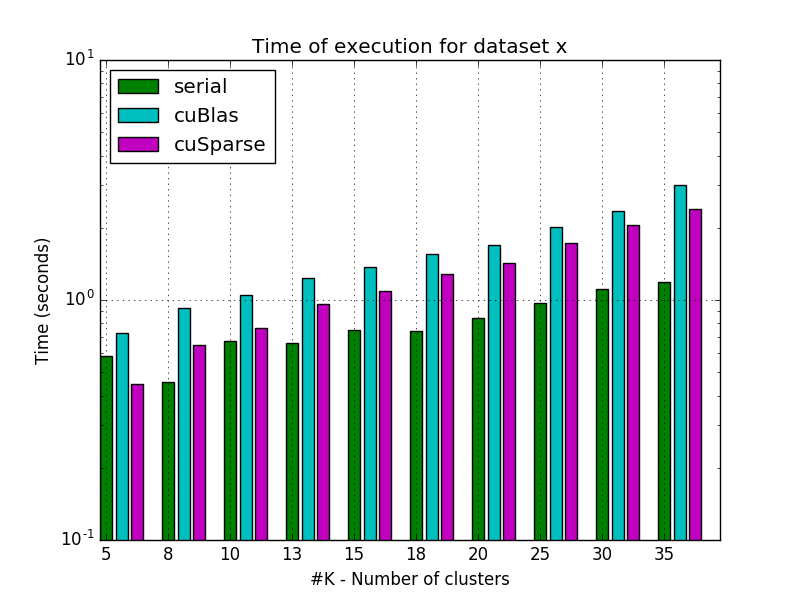
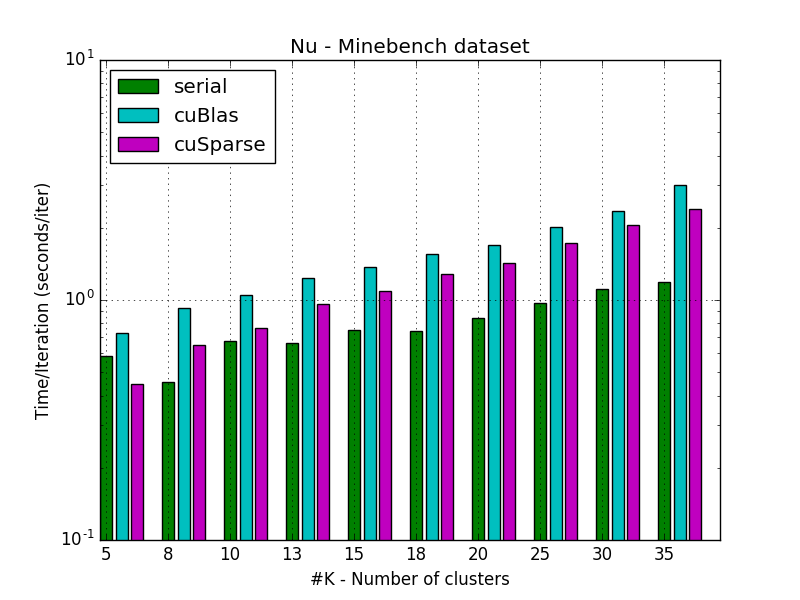
Compare implementations for daily, improved graphs

Changed region(s): [[0.3125, 0.06, 0.7188, 0.09], [0.0312, 0.3, 0.0625, 0.69]]

diff --git a/results/plot_graphs.py b/results/plot_graphs.py
@@ -16,7 +16,7 @@ def parse_results(condition, filename):
 	result = map(lambda x: float(x.split(",")[-2].split()[0]), kept_lines)
 	return result
 
-def plot_one(output_name, dataset, files, x_labels):
+def plot_one(output_name, dataset, files, x_labels, title):
 	cond = lambda x: x.startswith('cusparse, ' + dataset + ',')
 	cusparse_times = parse_results(cond, files[0])
 	N = len(cusparse_times)
@@ -28,8 +28,7 @@ def plot_one(output_name, dataset, files, x_labels):
 	cond = lambda x: x.startswith('scikit_kmeans, ' + dataset + ',')
 	serial_times = parse_results(cond, files[2])
 
-
-	# 
+	
 
 	max_value = max(max(serial_times), max(cublas_times), max(cusparse_times))
 
@@ -46,8 +45,8 @@ def plot_one(output_name, dataset, files, x_labels):
 	rects3 = ax.bar(ind + 2*(width + gap), cusparse_times, width, color='m')
 
 	# add some text for labels, title and axes ticks
-	ax.set_ylabel('Time (seconds)')
-	ax.set_title('Time of execution for dataset x')
+	ax.set_ylabel('Time/Iteration (seconds/iter)')
+	ax.set_title(title + " dataset")
 	ax.set_xticks(ind + width / 2)
 	ax.set_xticklabels(x_labels)
 	ax.set_xlabel('#K - Number of clusters')
@@ -61,20 +60,22 @@ def plot_one(output_name, dataset, files, x_labels):
 
 ## TODO: Show inertia somewhere
 
+title = "Spatial Network"
 output_name = "road_dataset.png"
 dataset = 'data/road_spatial_network_dataset/spatial_network.data'
 files = ["titan_x_final.txt"] * 2 + ["konka_scikit_results.out"]
 x_labels = map(str, range(5,46,5) + [55])
-plot_one(output_name, dataset, files, x_labels)
+plot_one(output_name, dataset, files, x_labels, title)
 
+title = "Nu - Minebench"
 output_name = "nu_minebench.png"
 dataset = 'data/nu_minebench_dataset/kmeans/edge.data'
 files = ["titan_x_final.txt"] * 2 + ["konka_scikit_results.out"]
 x_labels = map(str, range(50,401,50) + [500, 600])
-plot_one(output_name, dataset, files, x_labels)
+plot_one(output_name, dataset, files, x_labels, title)
 
 output_name = "daily_sports.png"
 dataset = 'data/daily_sports_activities/data.data'
 files = ["results_daily.out"] * 2 + ["scikit_final.out"]
 x_labels = map(str, [5,8,10,13,15,18,20,25,30,35])
-plot_one(output_name, dataset, files, x_labels)
+plot_one(output_name, dataset, files, x_labels, title)

diff --git a/compare_implementations.py b/compare_implementations.py
@@ -29,9 +29,9 @@ datasets = [
     # "iris_dataset/iris.data",
     # "elki_sample_dataset/dataset_elki_150.in",
     # "elki_sample_dataset/dataset_elki_500.in",
-    "road_spatial_network_dataset/spatial_network.data",
+    # "road_spatial_network_dataset/spatial_network.data",
     # "nu_minebench_dataset/kmeans/color.data",
-    "nu_minebench_dataset/kmeans/edge.data",
+    # "nu_minebench_dataset/kmeans/edge.data",
     "daily_sports_activities/data.data"
 ]
 
@@ -42,7 +42,7 @@ implementations = [
     # ("./serial/run_sklearn_kmeans.py", "scikit_kmeans"),
     # ("./serial/kmeans", "serial"),
     ("./GPU/kmeans_cublas", "cublas"),
-    ("./GPU/kmeans_cublas_sa", "cublas_simulated_annealing"),
+    # ("./GPU/kmeans_cublas_sa", "cublas_simulated_annealing"),
     # ("./GPU/kmeans_reduce", "reduce"),  # Something wrong here
     ("./GPU/kmeans_cusparse", "cusparse")
 ]
@@ -55,7 +55,7 @@ k_values = {
     "road_spatial_network_dataset/spatial_network.data": ["5", "10", "15", "20", "25", "30", "35", "40", "45", "55"],
     "nu_minebench_dataset/kmeans/color.data": ["200", "300", "400"],
     "nu_minebench_dataset/kmeans/edge.data": ["50", "100", "150", "200", "250", "300", "350", "400", "500", "600"],
-    "daily_sports_activities/data.data": ["5", "8", "10", "13", "15", "18", "20", "25", "30", "35"]
+    "daily_sports_activities/data.data": ["5", "10", "15", "20", "25"]
 }
 
 # Create a dictionary with all implementations
